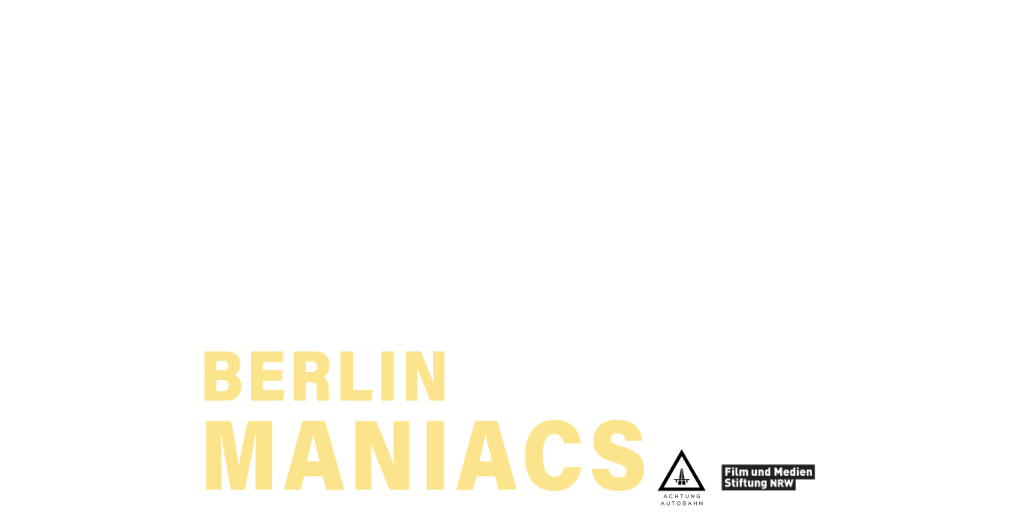
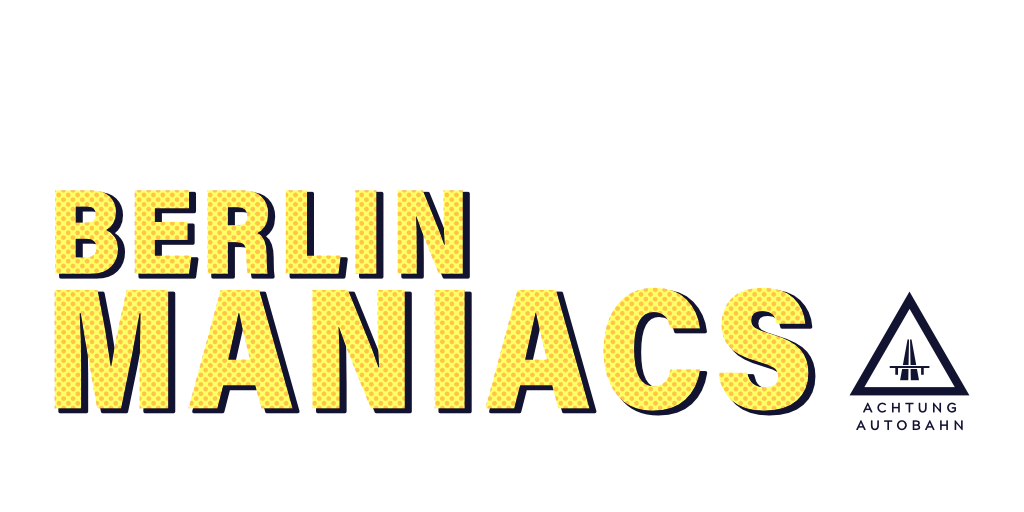
fixed links, fixed portfolio descriptions and updated graphics for 13r and maniacs art

Changed region(s): [[0.0312, 0.3438, 0.9688, 1.0]]

diff --git a/portfolio.html b/portfolio.html
@@ -122,10 +122,10 @@
                             <!-- BERLIN MANIACS -->
                             <div class="">
                                 <div>
-                                    <a href="https://achtungautobahn.com/maniacs" target="_blank"><img src="./lib/img/box/box-aas.png" class="shadow-box" /></a>
+                                    <a href="https://achtungautobahn.com/berlin-maniacs/" target="_blank"><img src="./lib/img/box/box-aas.png" class="shadow-box" /></a>
                                 </div>
                                 <div class="img-footer">
-                                    <h3><a href="https://achtungautobahn.com/maniacs" target="_blank">Berlin Maniacs</a></h3>
+                                    <h3><a href="https://achtungautobahn.com/berlin-maniacs/" target="_blank">Berlin Maniacs</a></h3>
                                     <h5>Achtung Autobahn</h5>
                                     <h4>3D Artist / Animator</h4>
                                 </div>
@@ -517,7 +517,7 @@
                                 <div class="img-footer">
                                     <h3><a href="https://www.toggo.de/ninjago/spiel/sumpf-arena" target="_blank">Lego Ninjago: Sumpf-Arena</a></h3>
                                     <h5>Flying Sheep Studios</h5>
-                                    <h4>3D Character Artist</h4>
+                                    <h4>3D Character & Environment Artist</h4>
                                 </div>
                             </div>
                         </div>

diff --git a/index.html b/index.html
@@ -95,7 +95,7 @@
                             </div>
                         </div>
                         <div class="img-bg img-aas shadow-box" style="background-image: url('./lib/img/box-04.png');">
-                            <a href="https://achtungautobahn.com/maniacs" target="_blank"><img src="./lib/img/box-04-title.png" class="img-a"/><img src="./lib/img/box-04-title-b.png" class="img-b"/></a>
+                            <a href="https://achtungautobahn.com/berlin-maniacs/" target="_blank"><img src="./lib/img/box-04-title.png" class="img-a"/><img src="./lib/img/box-04-title-b.png" class="img-b"/></a>
 
                             <div class="img-footer img-footer-bg">
                                 <h4>3D Artist / Animator</h4>
